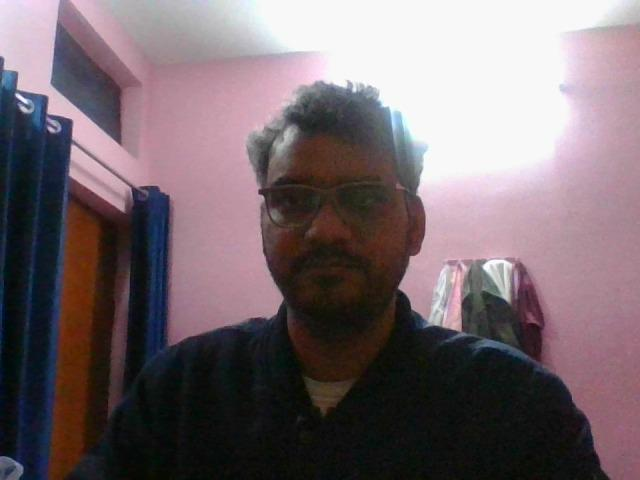
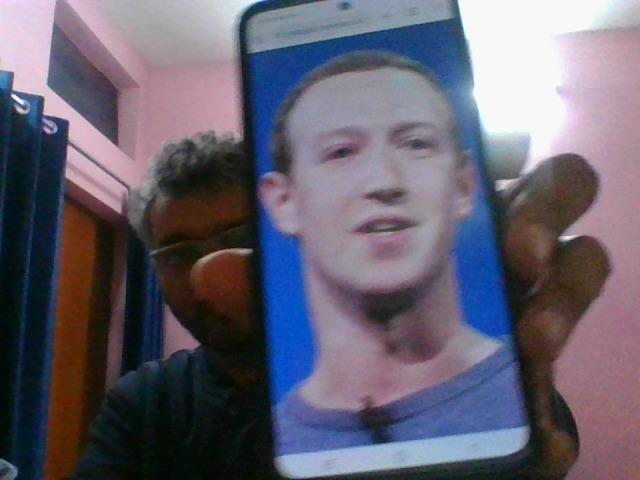
till last working , chatbot integrated 11 pm 6/1/26

diff --git a/smart-school-project-main/smart-school-frontend/smart-school-frontend/src/pages/Admin/AdminAttendancePage.jsx b/smart-school-project-main/smart-school-frontend/smart-school-frontend/src/pages/Admin/AdminAttendancePage.jsx
@@ -160,7 +160,7 @@ export default function AdminAttendancePage() {
         onMarked={(data) => {
           setLastMarked(data);
           loadAttendanceLogs();
-          // keep modal open for continuous recognition
+          setOpenModal(false); // Close modal after successful recognition
         }}
       />
     </div>

diff --git a/smart-school-project-main/smart_school_backend/routes/teacher_attendance.py b/smart-school-project-main/smart_school_backend/routes/teacher_attendance.py
@@ -36,11 +36,15 @@ def mark_teacher_attendance():
     """
     data = request.get_json() or {}
     teacher_id = data.get("teacher_id")
+    status = data.get("status", "present")
 
     if not teacher_id:
         return jsonify({"error": "teacher_id is required"}), 400
 
-    today = date_module.today().isoformat()
+    now = datetime.now()
+    date = now.strftime("%Y-%m-%d")
+    marked_at_ts = now.strftime("%Y-%m-%d %H:%M:%S")
+    
     db = get_db()
     cur = db.cursor()
 
@@ -48,22 +52,16 @@ def mark_teacher_attendance():
         cur.execute(
             """
             INSERT INTO teacher_attendance (teacher_id, date, status, marked_at)
-            VALUES (?, ?, 'present', ?)
-            ON CONFLICT(teacher_id, date) DO NOTHING
+            VALUES (?, ?, ?, ?)
+            ON CONFLICT(teacher_id, date) 
+            DO UPDATE SET status=excluded.status, marked_at=excluded.marked_at
             """,
-            (teacher_id, today, datetime.now().isoformat()),
+            (teacher_id, date, status, marked_at_ts),
         )
         db.commit()
         
-        if cur.rowcount > 0:
-            return jsonify({"message": "Attendance marked successfully"}), 201
-        else:
-            return jsonify({"message": "Attendance already marked for today"}), 200
+        return jsonify({"message": "Attendance marked successfully"}), 200
 
-    except sqlite3.IntegrityError:
-        # This is a fallback in case the UNIQUE constraint is violated
-        # in a way that ON CONFLICT doesn't catch (unlikely).
-        return jsonify({"message": "Attendance already marked for today"}), 200
     except Exception as e:
         current_app.logger.error("Failed to mark teacher attendance: %s", e)
         return jsonify({"error": "Server error while marking attendance"}), 500
